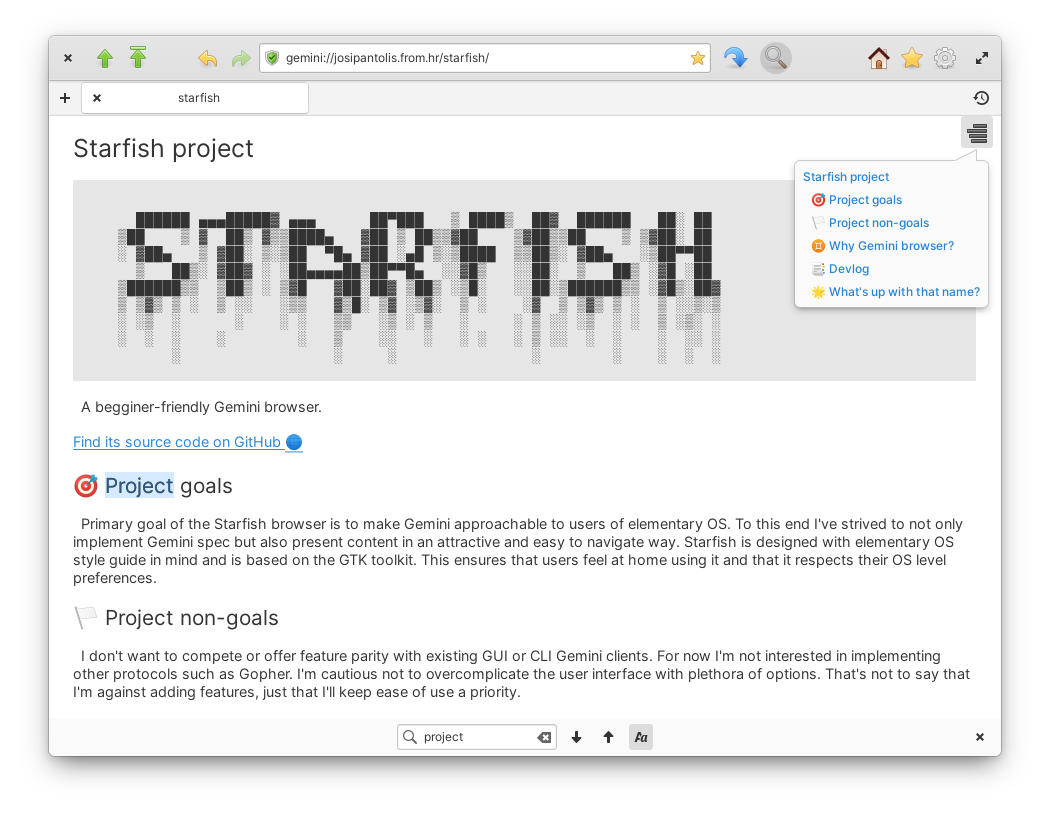
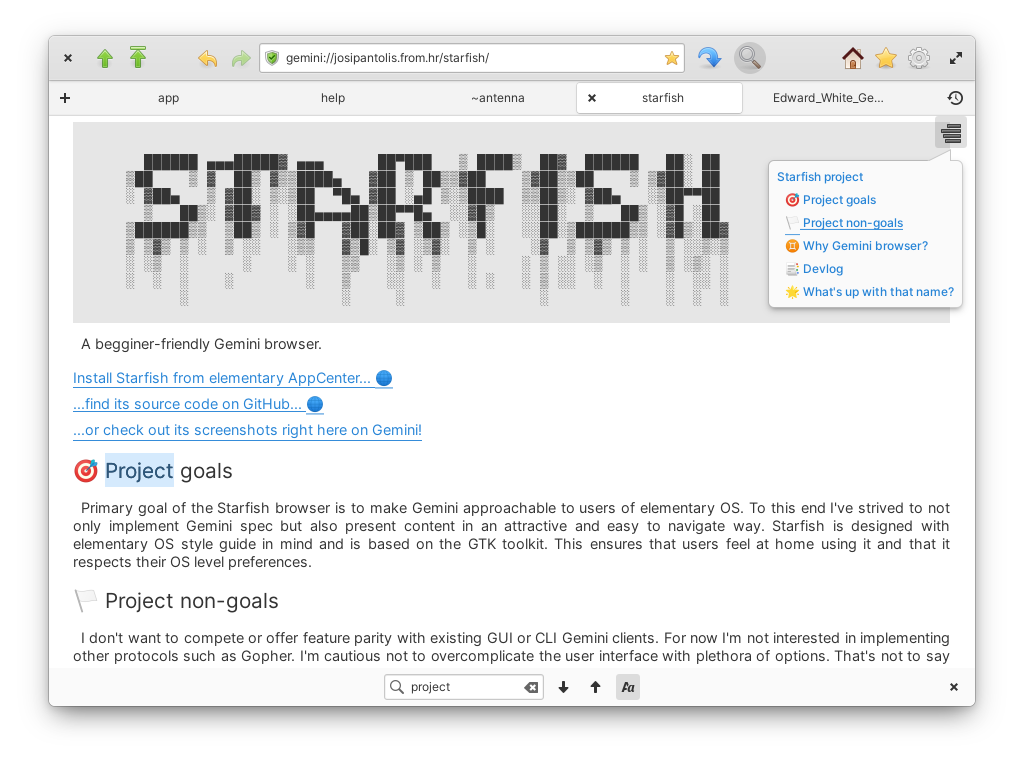
1.3.0 prep (#23)
* Improve spacing in gemtext
* Update readme
* Update screenshots
* Add release notes

Changed region(s): [[0.0312, 0.0312, 0.9688, 0.9375]]

diff --git a/README.md b/README.md
@@ -3,7 +3,10 @@
 
 A [Gemini](https://gemini.circumlunar.space/) browser made for [elementary OS](https://elementary.io/).
 
+[![Get it on AppCenter](https://appcenter.elementary.io/badge.svg)](https://appcenter.elementary.io/hr.from.josipantolis.starfish)
 [![License: GPL v3](https://img.shields.io/badge/License-GPLv3-blue.svg)](COPYING)
+[![Build](https://github.com/starfish-app/Starfish/actions/workflows/main.yml/badge.svg)](https://github.com/starfish-app/Starfish/actions)
+[![GitHub release](https://img.shields.io/github/v/release/starfish-app/Starfish)](https://github.com/starfish-app/Starfish/releases)
 
 |![Gemini pages are displayed with your chosen accent color and light or dark style](data/screenshots/styling.png)|![gentle introduction to Gemini is provided to help you find your bearings](data/screenshots/intro-to-gemini.png)|
 |----------------------------------------------------------------------------------------------------------------|----------------------------------------------------------------------------------------------------------------|
@@ -19,7 +22,15 @@ Starfish is a graphical client for the Gemini protocol built with GTK and Vala. 
 
 Starfish is in active development. It currently supports the prerelease version of the Gemini specification, including gemtext rendering and client certificates. Starfish can be used to view images and download other file types. There are still many improvements and new features that could be added to the app. For a list of current development plans check out [GitHub issues](https://github.com/starfish-app/Starfish/issues).
 
-## Build
+## Install
+
+Starfish is packaged with [Flatpak](https://www.flatpak.org/) and published on elementary OS AppCenter. If you are running some other Linux distribution you can download the `flatpakref` file from [elementary repo](https://flatpak.elementary.io/repo/appstream/hr.from.josipantolis.starfish.flatpakref) and install it either using a graphical package manager, or from terminal with:
+
+```sh
+flatpak install --from ./hr.from.josipantolis.starfish.flatpakref
+```
+
+## Build from source
 
 Starfish is built for elementary OS 6. All prerequisites can be met by installing `elementary-sdk` and `gtkspell`:
 
